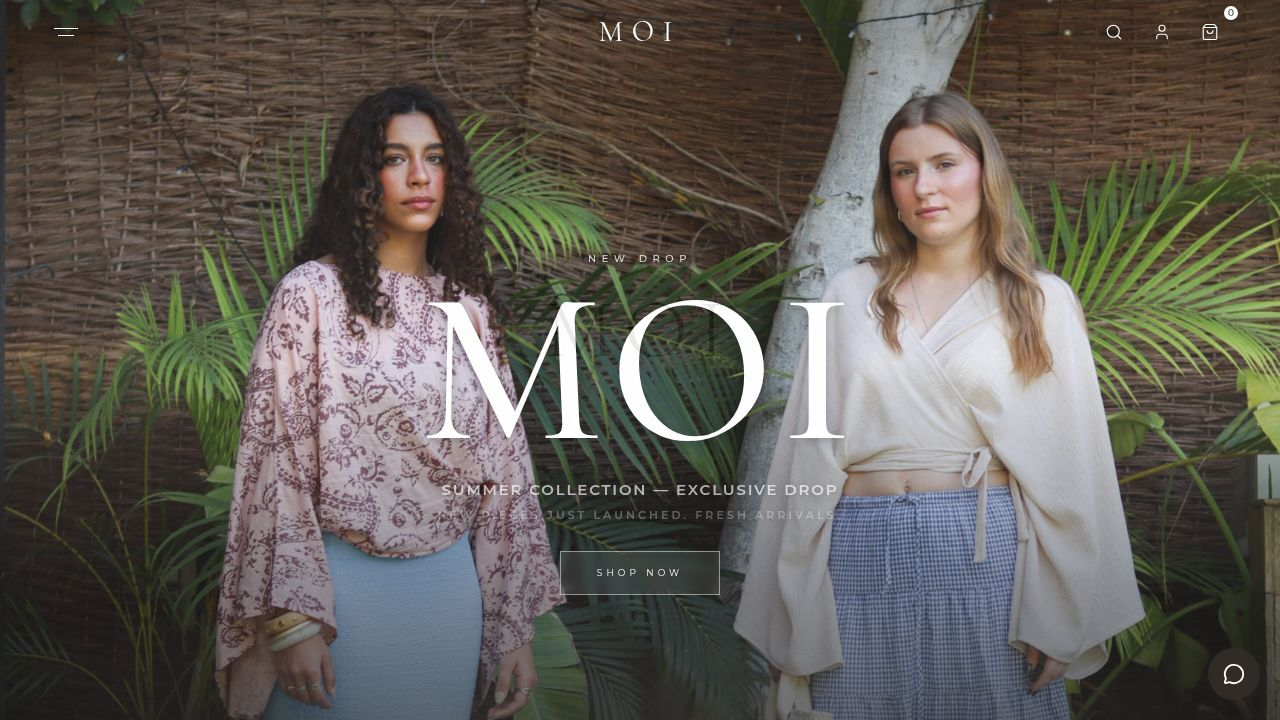
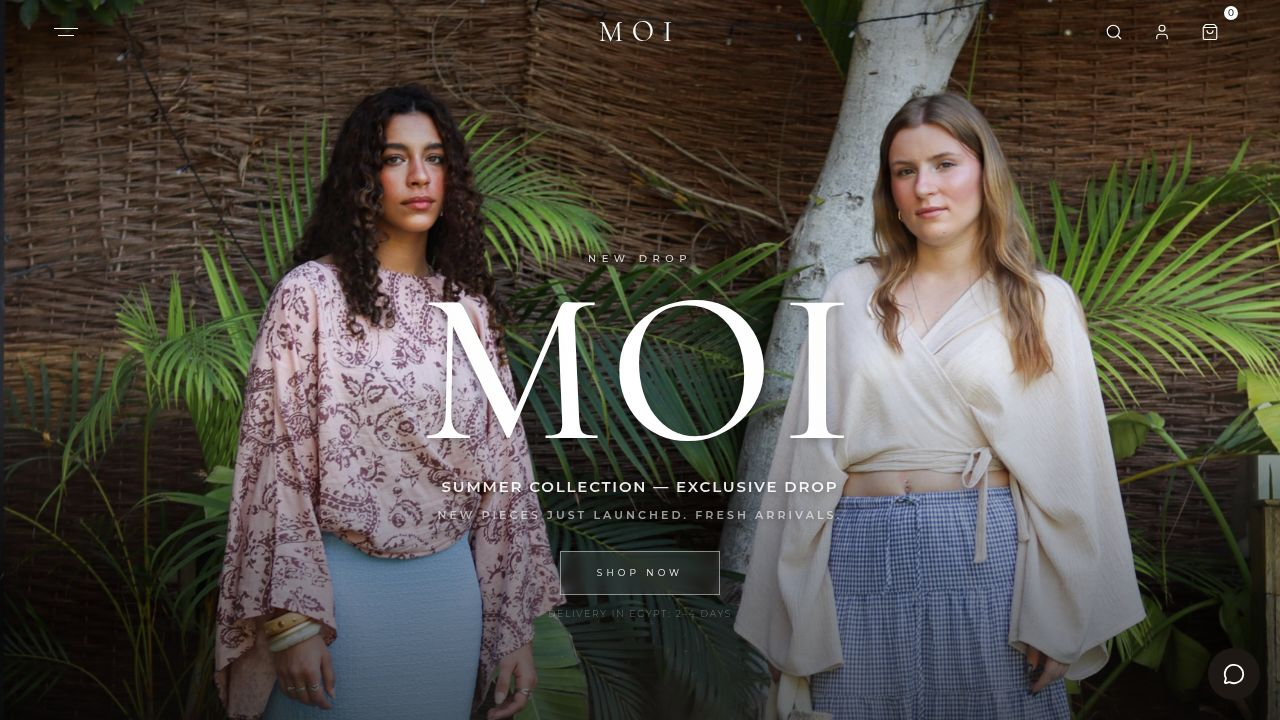
Add login prompt to cart drawer for faster checkout
Update CartDrawer.tsx to conditionally render a "Have an account? Log in to check out faster." message and login button when a customer is not logged in, utilizing the openAuth function from useCustomer.

Replit-Commit-Author: Agent
Replit-Commit-Session-Id: 3073314e-5bc2-4f17-b009-e8a0109da9c5
Replit-Commit-Checkpoint-Type: full_checkpoint
Replit-Commit-Event-Id: 64054676-3497-41a9-b944-aca7eb536318
Replit-Commit-Screenshot-Url: https://storage.googleapis.com/screenshot-production-us-central1/3095ac8c-c529-4d3f-b18a-1650accab2e5/3073314e-5bc2-4f17-b009-e8a0109da9c5/CWgMYSP
Replit-Helium-Checkpoint-Created: true

diff --git a/artifacts/moi/src/components/CartDrawer.tsx b/artifacts/moi/src/components/CartDrawer.tsx
@@ -154,7 +154,7 @@ export function CartDrawer() {
     applyDiscount,
     prefilledEmail,
   } = useCart();
-  const { customer } = useCustomer();
+  const { customer, openAuth } = useCustomer();
 
   const hasItems = (isShopify && (shopifyCart?.lines.nodes.length ?? 0) > 0) || localItems.length > 0;
 
@@ -493,6 +493,28 @@ export function CartDrawer() {
                 </div>
                 {/* Conversion Banner — FIRST50 (disabled — uncomment to re-enable) */}
                 {/* <DiscountBanner /> */}
+                {!customer && (
+                  <div className="text-center">
+                    <p
+                      className="text-[12px] tracking-[0.08em]"
+                      style={{ color: "rgba(30,24,20,0.55)", fontFamily: "'Montserrat', sans-serif" }}
+                    >
+                      Have an account?{" "}
+                      <button
+                        type="button"
+                        onClick={() => {
+                          closeCart();
+                          openAuth();
+                        }}
+                        className="underline underline-offset-4 transition-opacity hover:opacity-70"
+                        style={{ color: "#1e1814", fontWeight: 500 }}
+                      >
+                        Log in
+                      </button>{" "}
+                      to check out faster.
+                    </p>
+                  </div>
+                )}
                 <button
                   type="button"
                   onClick={() => {